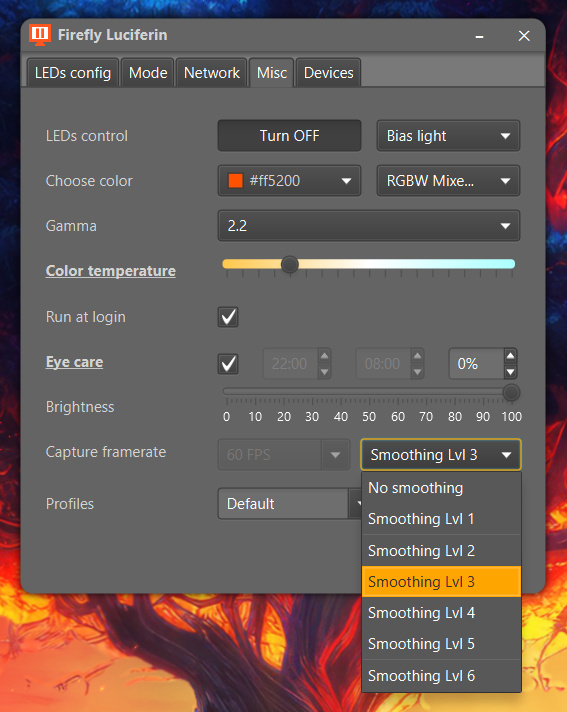
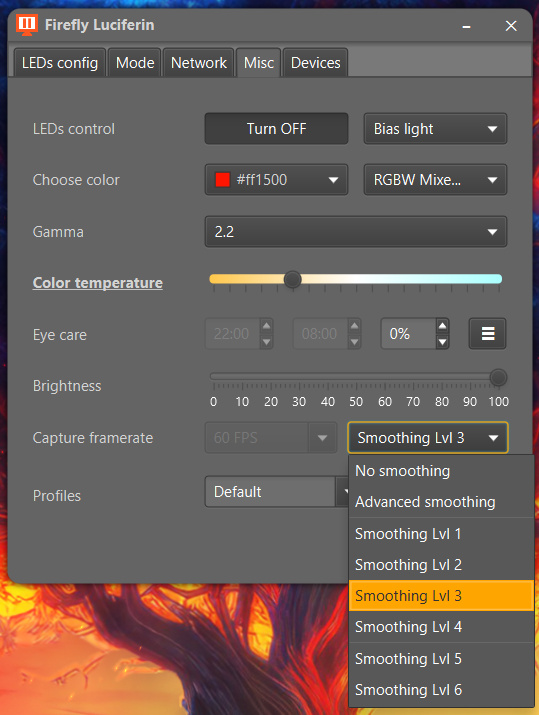
The smoothing feature is greatly improved thanks to the Exponential Moving Average (EMA).

diff --git a/src/main/java/org/dpsoftware/grabber/ImageProcessor.java b/src/main/java/org/dpsoftware/grabber/ImageProcessor.java
@@ -31,6 +31,7 @@ import org.dpsoftware.NativeExecutor;
 import org.dpsoftware.config.Configuration;
 import org.dpsoftware.config.Constants;
 import org.dpsoftware.config.Enums;
+import org.dpsoftware.config.LocalizedEnum;
 import org.dpsoftware.gui.elements.Satellite;
 import org.dpsoftware.managers.NetworkManager;
 import org.dpsoftware.managers.dto.HSLColor;
@@ -61,6 +62,7 @@ public class ImageProcessor {
     com.sun.jna.platform.win32.User32 user32;
     //Get desktop windows handler
     WinDef.HWND hwnd;
+    public static Color[] previousColor = new Color[0];
 
     /**
      * Constructor
@@ -682,6 +684,43 @@ public class ImageProcessor {
         return new Color(rAccumulator / zoneNum,
                 gAccumulator / zoneNum,
                 bAccumulator / zoneNum);
+    }
+
+    /**
+     * The Exponential Moving Average (EMA) is a type of moving average that assigns more weight to recent data points,
+     * making it more responsive to changes compared to the Simple Moving Average (SMA).
+     * Unlike SMA, which gives equal weight to all past values, EMA prioritizes recent values,
+     * making it more adaptive to rapid changes while still reducing noise.
+     * Why Use EMA?
+     * - Smoother Transitions
+     * - Reduces flickering in color changes.
+     * - Creates more natural-looking transitions.
+     * - Faster Adaptation to Changes
+     * - Avoids excessive lag while still filtering out sudden noise.
+     * - Balances Stability and Real-Time Responsiveness
+     * - Keeps the colors steady while allowing smooth adaptation to screen changes.
+     * A low β (e.g., 0.2) → Smoother but slower response (better for cinematic effects).
+     * A high β (e.g., 0.5 - 0.7) → Faster adaptation (better for gaming or fast motion).
+     * By tuning β, you can adjust the balance between smoothness and responsiveness.
+     *
+     * @param leds leds array that will be sent to the strip
+     */
+    public static void exponentialMovingAverage(Color[] leds) {
+        if (!MainSingleton.getInstance().config.getFrameInsertion().equals(Enums.FrameInsertion.NO_SMOOTHING.getBaseI18n())) {
+            // smoothing factor (0 < β < 1), controlling how much the past influences the present.
+            float alpha = LocalizedEnum.fromBaseStr(Enums.FrameInsertion.class, MainSingleton.getInstance().config.getFrameInsertion()).getEmaAlpha();
+            if (ImageProcessor.previousColor.length != leds.length) {
+                ImageProcessor.previousColor = leds.clone();
+            }
+            for (int i = 0; i < leds.length; i++) {
+                leds[i] = new Color(
+                        (int) (alpha * leds[i].getRed() + (1 - alpha) * ImageProcessor.previousColor[i].getRed()),
+                        (int) (alpha * leds[i].getGreen() + (1 - alpha) * ImageProcessor.previousColor[i].getGreen()),
+                        (int) (alpha * leds[i].getBlue() + (1 - alpha) * ImageProcessor.previousColor[i].getBlue())
+                );
+            }
+            ImageProcessor.previousColor = leds.clone();
+        }
     }
 
     /**

diff --git a/src/main/java/org/dpsoftware/config/Enums.java b/src/main/java/org/dpsoftware/config/Enums.java
@@ -259,20 +259,24 @@ public class Enums {
     }
 
     public enum FrameInsertion implements LocalizedEnum {
-        NO_SMOOTHING("enum.frame.insertion.no.smoothing", 60),
-        SMOOTHING_LVL_1("enum.frame.insertion.smoothing.lvl.1", 30),
-        SMOOTHING_LVL_2("enum.frame.insertion.smoothing.lvl.2", 20),
-        SMOOTHING_LVL_3("enum.frame.insertion.smoothing.lvl.3", 15),
-        SMOOTHING_LVL_4("enum.frame.insertion.smoothing.lvl.4", 10),
-        SMOOTHING_LVL_5("enum.frame.insertion.smoothing.lvl.5", 5),
-        SMOOTHING_LVL_6("enum.frame.insertion.smoothing.lvl.6", 2);
+        NO_SMOOTHING("enum.frame.insertion.no.smoothing", 60, 1.0F),
+        SMOOTHING_MFA_ONLY("enum.frame.insertion.mfa", 60, 0.3F),
+        SMOOTHING_LVL_1("enum.frame.insertion.smoothing.lvl.1", 30, 0.2F),
+        SMOOTHING_LVL_2("enum.frame.insertion.smoothing.lvl.2", 20, 0.2F),
+        SMOOTHING_LVL_3("enum.frame.insertion.smoothing.lvl.3", 15, 0.2F),
+        SMOOTHING_LVL_4("enum.frame.insertion.smoothing.lvl.4", 10, 0.2F),
+        SMOOTHING_LVL_5("enum.frame.insertion.smoothing.lvl.5", 5, 0.2F),
+        SMOOTHING_LVL_6("enum.frame.insertion.smoothing.lvl.6", 2, 0.1F);
         private final String frameInsertionStr;
         @Getter
         private final int frameInsertionFramerate;
+        @Getter
+        private final float emaAlpha;
 
-        FrameInsertion(String frameInsertionStr, int frameInsertionFramerate) {
+        FrameInsertion(String frameInsertionStr, int frameInsertionFramerate, float emaAlpha) {
             this.frameInsertionStr = frameInsertionStr;
             this.frameInsertionFramerate = frameInsertionFramerate;
+            this.emaAlpha = emaAlpha;
         }
 
         public String getValue() {

diff --git a/src/main/java/org/dpsoftware/managers/StorageManager.java b/src/main/java/org/dpsoftware/managers/StorageManager.java
@@ -411,6 +411,7 @@ public class StorageManager {
         writeToStorage = updatePrevious2124(config, writeToStorage); // Version < 2.12.4
         writeToStorage = updatePrevious2187(config, writeToStorage); // Version < 2.18.7
         writeToStorage = updatePrevious2224(config, writeToStorage, filename); // Version <= 2.22.4
+        writeToStorage = updatePrevious2236(config, writeToStorage); // Version <= 2.23.6
         return writeToStorage;
     }
 
@@ -576,6 +577,20 @@ public class StorageManager {
                 writeToStorage = true;
             } catch (Exception ignored) {
             }
+        }
+        return writeToStorage;
+    }
+
+    /**
+     * Update configuration file previous than 2.23.6
+     *
+     * @param config         configuration to update
+     * @param writeToStorage if an update is needed, write to storage
+     * @return true if update is needed
+     */
+    private boolean updatePrevious2236(Configuration config, boolean writeToStorage) {
+        if (UpgradeManager.versionNumberToNumber(config.getConfigVersion()) < UpgradeManager.versionNumberToNumber("2.23.6")) {
+            writeToStorage = updateMqttDiscoveryEntities(config, writeToStorage);
         }
         return writeToStorage;
     }

diff --git a/src/main/java/org/dpsoftware/grabber/GStreamerGrabber.java b/src/main/java/org/dpsoftware/grabber/GStreamerGrabber.java
@@ -395,7 +395,8 @@ public class GStreamerGrabber extends JComponent {
                 // Put the image in the queue or send it via socket to the main instance server
                 if (!MainSingleton.getInstance().exitTriggered && (!AudioSingleton.getInstance().RUNNING_AUDIO
                         || Enums.Effect.MUSIC_MODE_BRIGHT.equals(LocalizedEnum.fromBaseStr(Enums.Effect.class, MainSingleton.getInstance().config.getEffect())))) {
-                    if (!MainSingleton.getInstance().config.getFrameInsertion().equals(Enums.FrameInsertion.NO_SMOOTHING.getBaseI18n())) {
+                    if (!MainSingleton.getInstance().config.getFrameInsertion().equals(Enums.FrameInsertion.NO_SMOOTHING.getBaseI18n())
+                            && !MainSingleton.getInstance().config.getFrameInsertion().equals(Enums.FrameInsertion.SMOOTHING_MFA_ONLY.getBaseI18n())) {
                         if (previousFrame != null) {
                             frameInsertion(leds);
                         }

diff --git a/src/main/java/org/dpsoftware/managers/PipelineManager.java b/src/main/java/org/dpsoftware/managers/PipelineManager.java
@@ -33,6 +33,7 @@ import org.dpsoftware.config.Enums;
 import org.dpsoftware.config.LocalizedEnum;
 import org.dpsoftware.grabber.DbusScreenCast;
 import org.dpsoftware.grabber.GrabberSingleton;
+import org.dpsoftware.grabber.ImageProcessor;
 import org.dpsoftware.gui.GuiSingleton;
 import org.dpsoftware.gui.elements.DisplayInfo;
 import org.dpsoftware.gui.elements.GlowWormDevice;
@@ -245,6 +246,7 @@ public class PipelineManager {
             }
             NetworkSingleton.getInstance().msgClient.sendMessage(sb.toString());
         } else {
+            ImageProcessor.exponentialMovingAverage(leds);
             //noinspection ResultOfMethodCallIgnored
             MainSingleton.getInstance().sharedQueue.offer(leds);
         }
